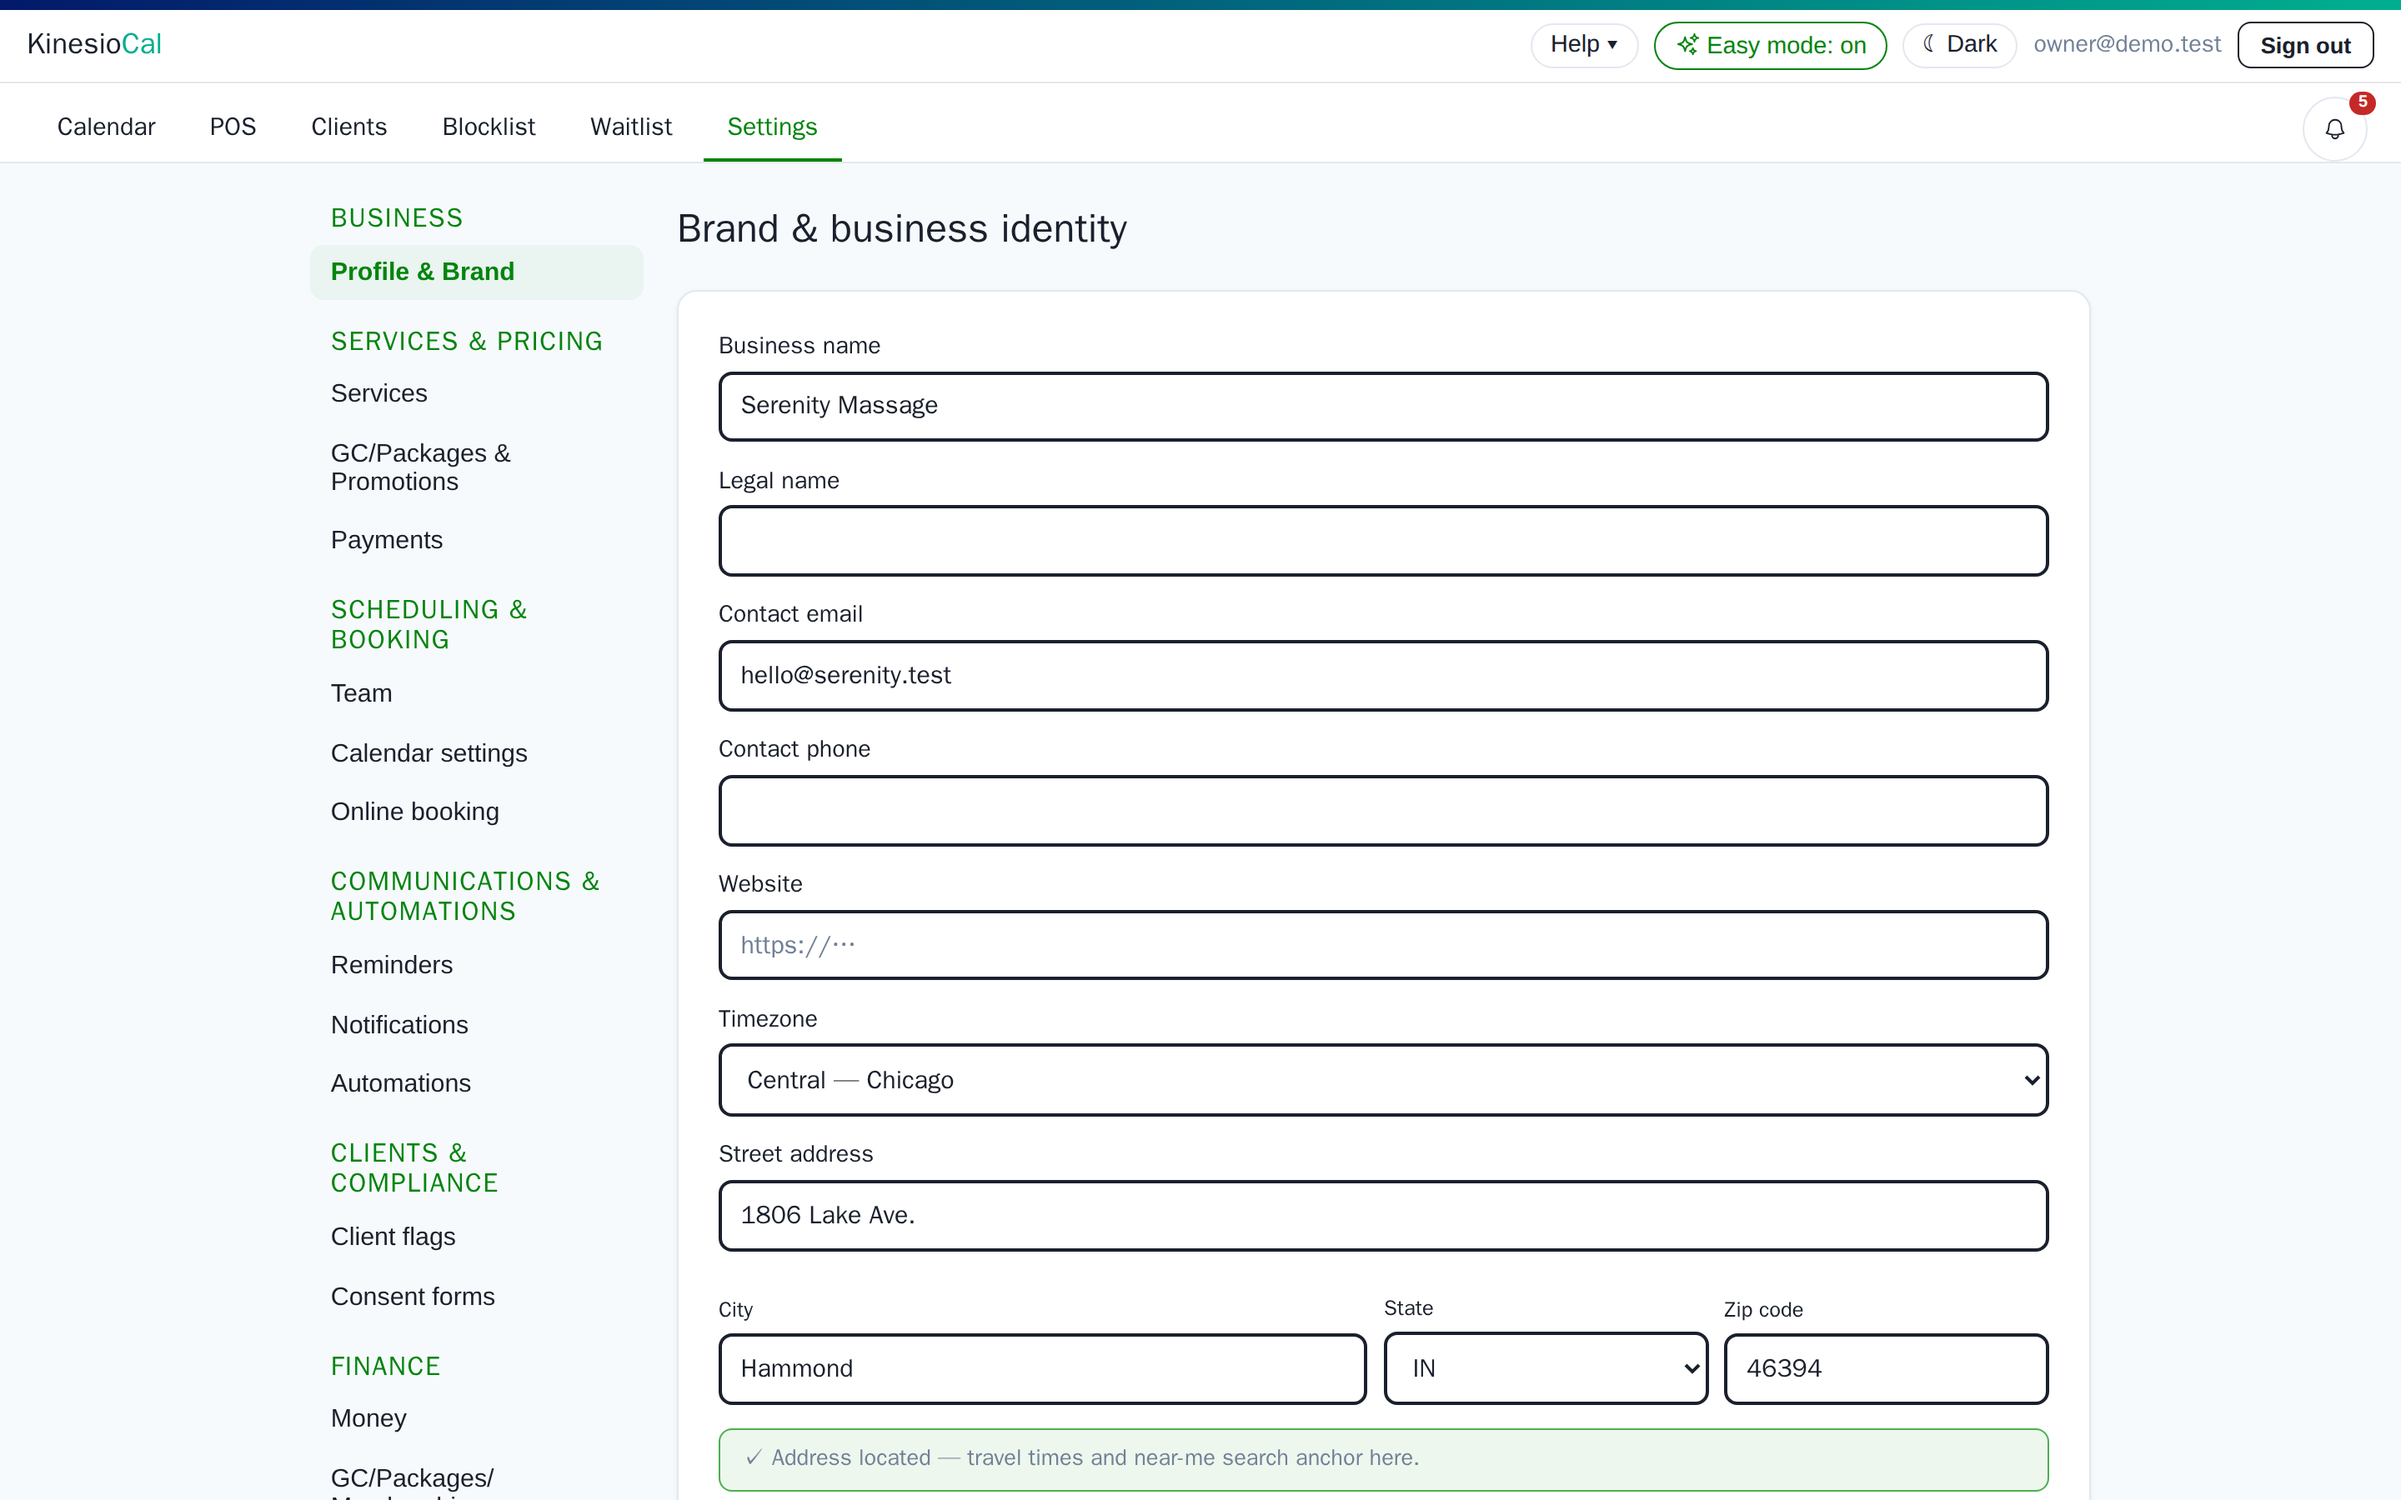
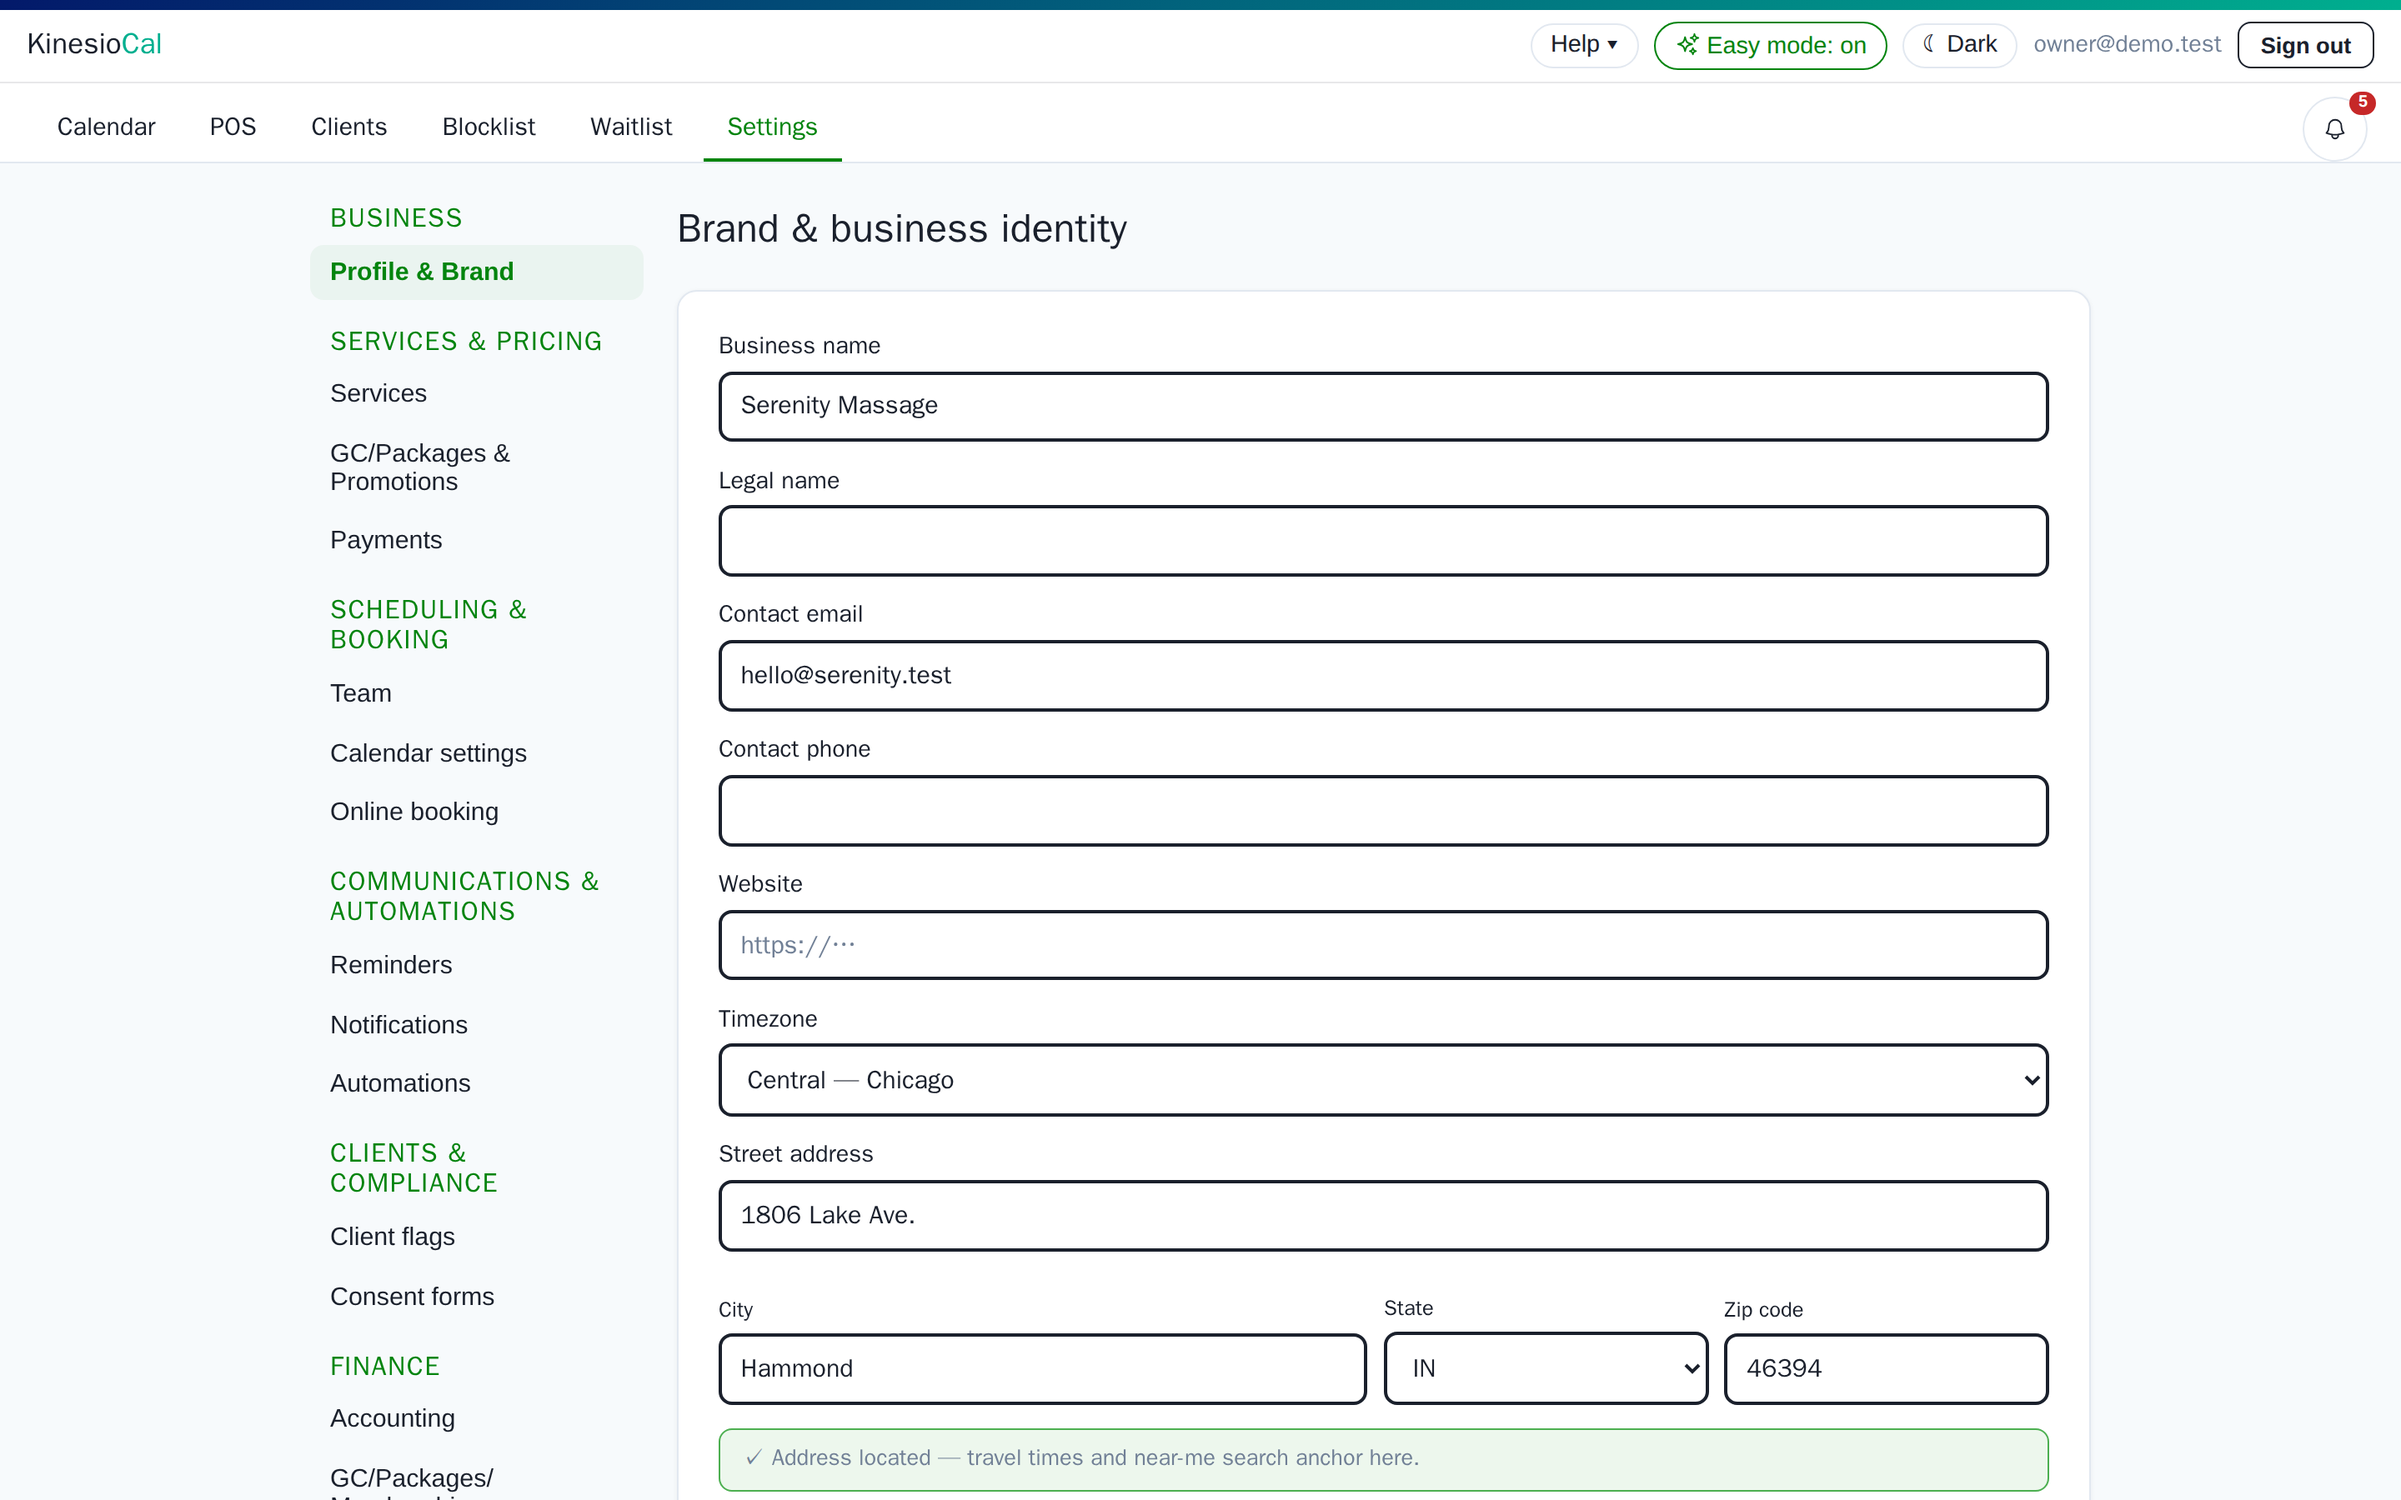
Landing: accounting overview + reports statistics row; refreshed settings-area screenshots
- New "Know your numbers" row with the What-sold pie and the P&L card.
- Recaptured easy-mode-settings and gift-grants after the settings reorg
  (Money is now Accounting under Finance).
- All-features and pricing wording updated for the Accounting rename and
  the Statistics tab.

diff --git a/pricing.html b/pricing.html
@@ -211,11 +211,11 @@
           <tr class="area"><th colspan="4">Payments &amp; commerce</th></tr>
           <tr><td>Card payments through Stripe, checkout, tips, point of sale <span class="why">Getting paid is never gated.</span></td><td class="tier"><span class="mkt-check">&#10003;</span></td><td class="tier featured"><span class="mkt-check">&#10003;</span></td><td class="tier"><span class="mkt-check">&#10003;</span></td></tr>
           <tr><td>Invoices (PDF, itemized, with provider credentials; clients can request their own)</td><td class="tier"><span class="mkt-check">&#10003;</span></td><td class="tier featured"><span class="mkt-check">&#10003;</span></td><td class="tier"><span class="mkt-check">&#10003;</span></td></tr>
-          <tr><td>Revenue summary, commission splits, earnings CSV</td><td class="tier"><span class="mkt-check">&#10003;</span></td><td class="tier featured"><span class="mkt-check">&#10003;</span></td><td class="tier"><span class="mkt-check">&#10003;</span></td></tr>
+          <tr><td>Accounting overview: income grid, transactions, mileage log, commission splits, earnings CSV</td><td class="tier"><span class="mkt-check">&#10003;</span></td><td class="tier featured"><span class="mkt-check">&#10003;</span></td><td class="tier"><span class="mkt-check">&#10003;</span></td></tr>
           <tr><td>Gift cards, packages, memberships, promo codes, retail, online shop <span class="why">Balances already sold are always redeemable; new sales are what&rsquo;s gated.</span></td><td class="tier"><span class="mkt-dash">&mdash;</span></td><td class="tier featured"><span class="mkt-check">&#10003;</span></td><td class="tier"><span class="mkt-check">&#10003;</span></td></tr>
 
           <tr class="area"><th colspan="4">Money &amp; reports</th></tr>
-          <tr><td>Reports: utilization, rebooking, no-shows, revenue by provider and service, mobile efficiency</td><td class="tier"><span class="mkt-check">&#10003;</span></td><td class="tier featured"><span class="mkt-check">&#10003;</span></td><td class="tier"><span class="mkt-check">&#10003;</span></td></tr>
+          <tr><td>Reports: utilization, rebooking, no-shows, revenue by provider and service, mobile efficiency, statistics pie charts</td><td class="tier"><span class="mkt-check">&#10003;</span></td><td class="tier featured"><span class="mkt-check">&#10003;</span></td><td class="tier"><span class="mkt-check">&#10003;</span></td></tr>
           <tr><td>Accounting suite: P&amp;L, expenses, tax lines, payroll-ready</td><td class="tier"><span class="mkt-dash">&mdash;</span></td><td class="tier featured"><span class="mkt-dash">&mdash;</span></td><td class="tier"><span class="mkt-check">&#10003;</span></td></tr>
 
           <tr class="area"><th colspan="4">Platform</th></tr>

diff --git a/index.html b/index.html
@@ -461,6 +461,34 @@
       </div>
     </div>
 
+    <!-- 15a. Accounting + reports -->
+    <div class="mkt-feature">
+      <div class="mkt-feature-text">
+        <span class="mkt-card-icon">
+          <svg viewBox="0 0 24 24" fill="none" stroke="currentColor" stroke-width="1.5" stroke-linecap="round" stroke-linejoin="round" aria-hidden="true"><circle cx="12" cy="12" r="8.5"/><path d="M12 3.5V12l6 3.5"/></svg>
+        </span>
+        <h2>Know your numbers without a spreadsheet</h2>
+        <p class="mkt-why">Because &ldquo;how did this month actually go?&rdquo; shouldn&rsquo;t take an evening with a calculator.</p>
+        <p>Accounting gives you the overview in one place: a year-by-month
+          income grid by category or by product, expenses by tax category
+          with CSV import, refunds and outstanding balances, a mileage log,
+          and a profit &amp; loss you can flip between cash and earned basis
+          &mdash; prepaid gift cards, packages and memberships sit on their
+          own line instead of inflating the month they were sold. Reports
+          adds the statistics: a pie chart of what sold, by dollar amount,
+          by share of the chart, or by count, that drills from category to
+          each service to each length with a click. Utilization, rebooking,
+          no-shows and travel-versus-billable time live next to it.</p>
+      </div>
+      <div>
+        <div class="mkt-img-stack">
+          <img class="mkt-img" src="img/reports-what-sold.png" alt="The What sold pie chart: services, memberships, packages, gift cards and retail by dollar amount, with a toggle for percent of chart or number sold" loading="lazy">
+          <img class="mkt-img" src="img/accounting-pnl.png" alt="The profit and loss card: service income, prepaid sales, gross income, pending deferred liability, refunds, expenses and net" loading="lazy">
+        </div>
+        <p class="mkt-img-caption">What sold, and what it netted &mdash; the same two questions every month.</p>
+      </div>
+    </div>
+
     <!-- 15b. Commerce + gift grants -->
     <div class="mkt-feature flip">
       <div class="mkt-feature-text">

diff --git a/features.html b/features.html
@@ -341,8 +341,9 @@
       <div class="card mkt-card">
         <h3>Money, reports &amp; accounting</h3>
         <ul class="mkt-feature-list">
-          <li><strong>Money page:</strong> revenue by provider and period, commission splits, tips, earnings table with CSV export.</li>
-          <li><strong>Reports:</strong> utilization, rebooking rate, no-shows and repeat offenders, revenue by service, mobile travel vs. billable time.</li>
+          <li><strong>Accounting overview on every plan:</strong> a year-by-month income grid by category or by product, cash or earned basis, with commission splits, tips, a mileage log, every transaction, and the earnings table with CSV export.</li>
+          <li><strong>Reports:</strong> utilization, rebooking rate, no-shows and repeat offenders, revenue by provider and service, mobile travel vs. billable time.</li>
+          <li><strong>Statistics:</strong> sessions and items sold by month, plus a pie chart of what sold by dollar amount, share of the chart, or count &mdash; click a slice to drill from category to service to length.</li>
           <li><strong>Accounting suite</strong> <span class="mkt-tier-tag premium">Premium</span>: Schedule C categories, expense CSV import, reimbursement tickets, tax lines, W-2/1099 pay-run math, and a P&amp;L with cash or earned toggle and the deferred-revenue line.</li>
           <li><strong>Deferred revenue done properly:</strong> gift and package sales post to a liability and recognize on delivery.</li>
         </ul>

diff --git a/README.md b/README.md
@@ -39,6 +39,7 @@ server); the showcase data is tagged `notes="showcase"` on 2026-10-20 /
 | `client-invoice.png`, `portal-invoice.png`, `portal-appointments.png` | Client-downloadable invoices and the portal |
 | `repeat-options.png` | Standing appointments |
 | `easy-mode-settings.png` | Easy Mode |
+| `reports-what-sold.png`, `accounting-pnl.png`, `accounting-income.png` | Accounting overview and the Reports statistics pie (2026-10-17) |
 | `gift-grants.png` | Gift cards, packages, memberships and the gift-grant send |
 | `booking-log.png` | Abandoned bookings (a real declined-card run with Stripe's 4000 0000 0000 0002 test card, 2026-10-16) |
 
